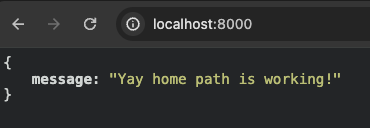
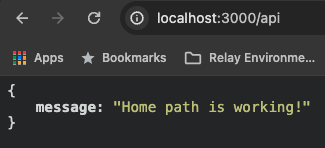
new changes

diff --git a/routes/api-routes.js b/routes/api-routes.js
@@ -9,7 +9,7 @@ router.get("/", async (req, res) => {
   res.status(200).json({ message: "Home path is working!" });
 });
 
-router.get("/users", async (req, res) => {
+router.get("/users", verifyToken, async (req, res) => {
   try {
     const users = await Users.find({});
     res.status(200).json({

diff --git a/README.md b/README.md
@@ -14,7 +14,7 @@
 % git clone  https://github.com/<github_username>/<project_name>
 ```
 
-> Example: https://github.com/agaparkg/nodejs-firebase-app-complete
+> Example: https://github.com/agaparkg/nodejs-mongodb-app-complete
 
 - Install dependencies
 
@@ -30,7 +30,7 @@
 % npm run dev
 ```
 
-Navigate to `http://localhost:8000` to see the output
+Navigate to `http://localhost:3000/api` to see the output
 
 ![home](/images/home.png)
 
